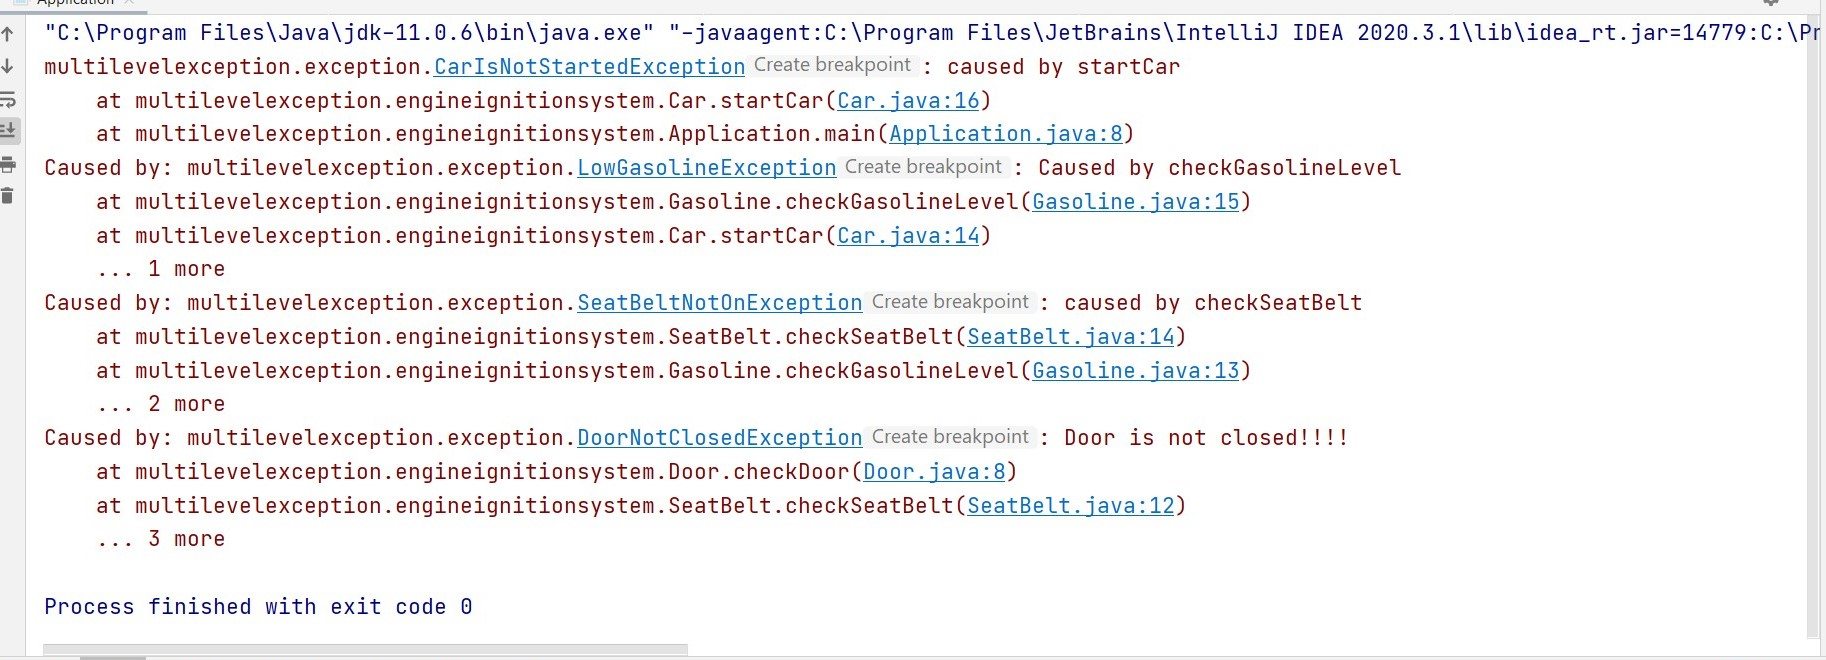
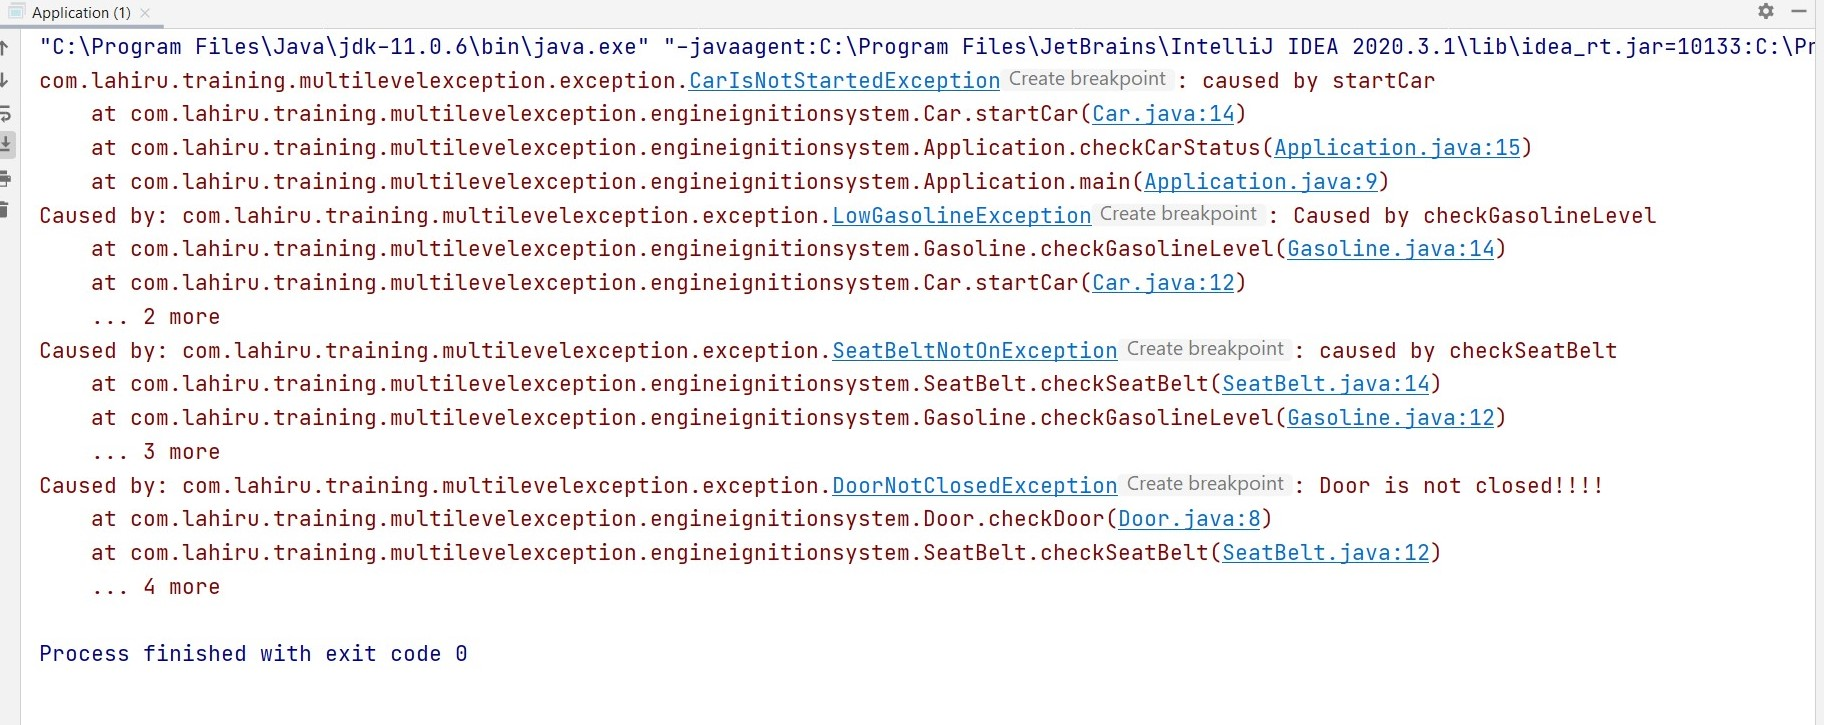
add checkCarStatus to main method

Changed region(s): [[0.0, 0.0, 1.0, 0.9697], [0.0, 0.8788, 0.2812, 0.9394], [0.0, 0.9697, 0.375, 1.0]]

diff --git a/ExceptionHandling/src/com/lahiru/training/multilevelexception/engineignitionsystem/Application.java b/ExceptionHandling/src/com/lahiru/training/multilevelexception/engineignitionsystem/Application.java
@@ -1,12 +1,19 @@
 package com.lahiru.training.multilevelexception.engineignitionsystem;
 
+import com.lahiru.training.multilevelexception.exception.CarIsNotStartedException;
+
 public class Application {
 
-    public static void main(String[] args) {
+    public static void main(String[] args) throws Exception {
+        Application application = new Application();
+        application.checkCarStatus();
+    }
+
+    public void checkCarStatus() throws Exception {
         try {
             Car car = new Car();
             car.startCar();
-        } catch (Exception e){
+        } catch (CarIsNotStartedException e){
             e.printStackTrace();
         }
     }
